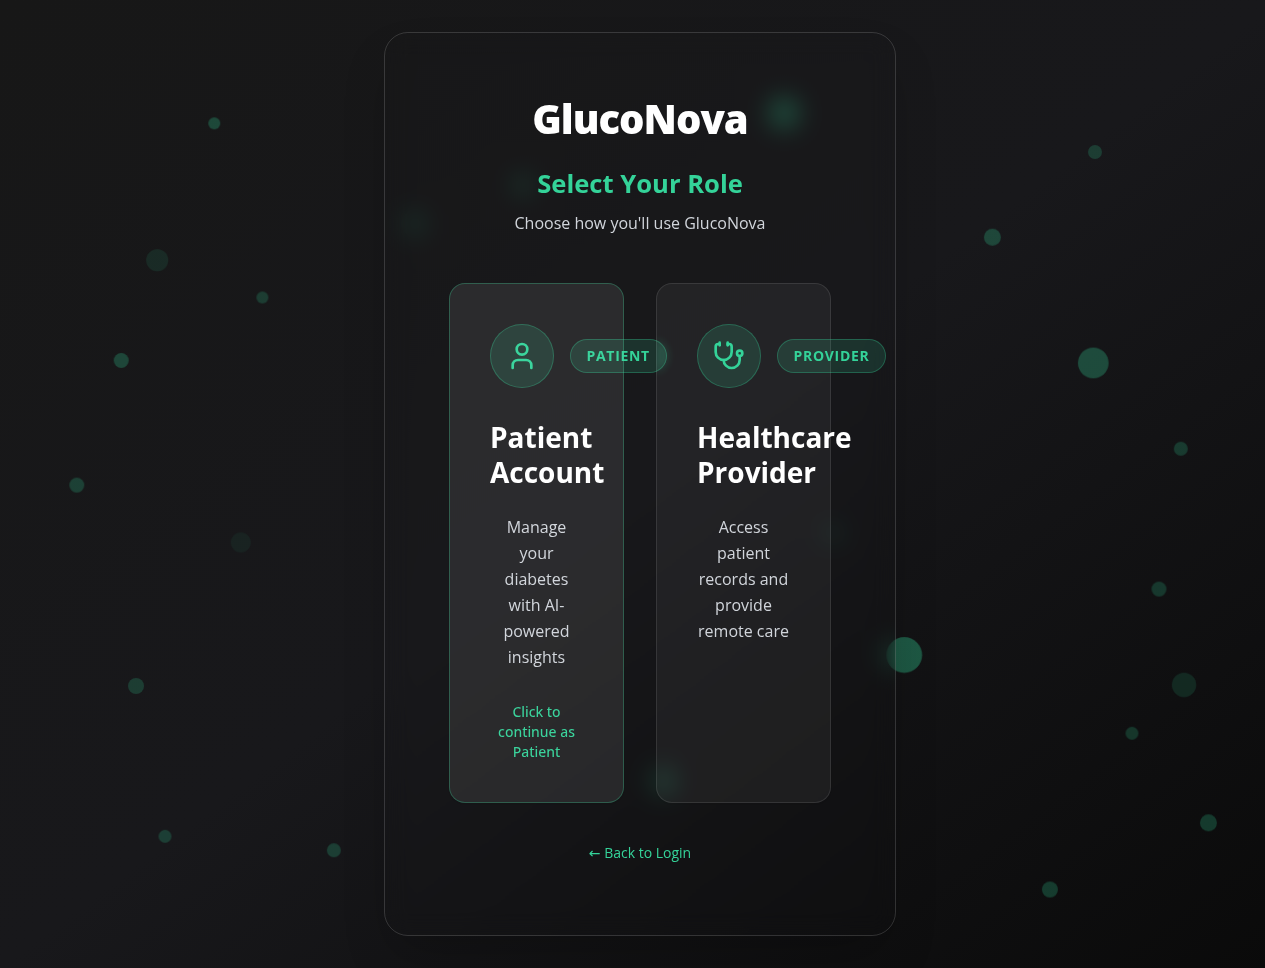
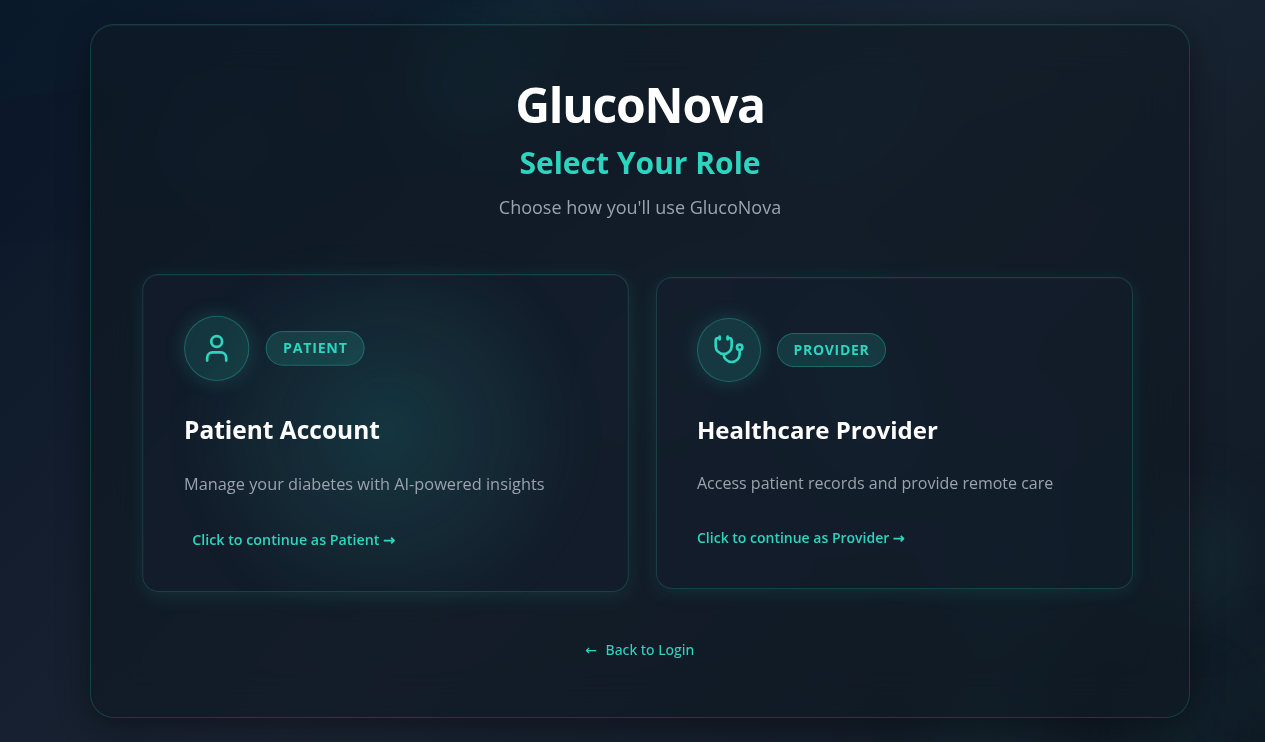
Expand background design to full desktop width while preserving style
Replace PublicLayout with custom full-width background implementation, increasing particle count to 20 and extending wave patterns to cover wider screens while maintaining original density and visual balance.

Replit-Commit-Author: Agent
Replit-Commit-Session-Id: 3a39287b-3a27-4a95-aeb7-80adefb4b807
Replit-Commit-Checkpoint-Type: full_checkpoint
Replit-Commit-Event-Id: 7751af66-af2a-4012-b37e-80e4575e5b5e
Replit-Commit-Screenshot-Url: https://storage.googleapis.com/screenshot-production-us-central1/662247f9-65c2-4da7-8f55-1945e8847433/3a39287b-3a27-4a95-aeb7-80adefb4b807/KMBz29p

diff --git a/client/src/pages/RoleSelectionPage.tsx b/client/src/pages/RoleSelectionPage.tsx
@@ -1,5 +1,4 @@
 import { useLocation, Link } from 'wouter';
-import PublicLayout from '@/components/PublicLayout';
 import { User, Stethoscope } from 'lucide-react';
 
 export default function RoleSelectionPage() {
@@ -10,9 +9,86 @@ export default function RoleSelectionPage() {
   };
 
   return (
-    <PublicLayout>
+    <div className="min-h-screen w-full relative overflow-hidden flex items-center justify-center p-6" style={{
+      background: 'linear-gradient(135deg, #0a1628 0%, #1a2332 50%, #0f1923 100%)'
+    }}>
+      {/* Animated Floating Teal Particles */}
+      <div className="absolute inset-0 overflow-hidden pointer-events-none">
+        {[...Array(20)].map((_, i) => (
+          <div
+            key={i}
+            className="absolute rounded-full"
+            style={{
+              width: `${Math.random() * 120 + 60}px`,
+              height: `${Math.random() * 120 + 60}px`,
+              background: `radial-gradient(circle, rgba(45, 212, 191, ${Math.random() * 0.15 + 0.05}) 0%, transparent 70%)`,
+              left: `${Math.random() * 100}%`,
+              top: `${Math.random() * 100}%`,
+              animation: `float ${Math.random() * 20 + 15}s ease-in-out infinite`,
+              animationDelay: `${Math.random() * 5}s`,
+              filter: 'blur(40px)'
+            }}
+          />
+        ))}
+      </div>
+
+      {/* Wave Pattern Background - Full Width */}
+      <div className="absolute inset-0 opacity-20 pointer-events-none">
+        <svg className="w-full h-full" xmlns="http://www.w3.org/2000/svg" preserveAspectRatio="none">
+          <defs>
+            <linearGradient id="waveGradient" x1="0%" y1="0%" x2="100%" y2="100%">
+              <stop offset="0%" style={{ stopColor: '#2dd4bf', stopOpacity: 0.3 }} />
+              <stop offset="100%" style={{ stopColor: '#14b8a6', stopOpacity: 0.1 }} />
+            </linearGradient>
+          </defs>
+          <path
+            d="M0,100 Q250,50 500,100 T1000,100 T1500,100 T2000,100 L2000,0 L0,0 Z"
+            fill="url(#waveGradient)"
+            opacity="0.15"
+          >
+            <animate
+              attributeName="d"
+              dur="20s"
+              repeatCount="indefinite"
+              values="M0,100 Q250,50 500,100 T1000,100 T1500,100 T2000,100 L2000,0 L0,0 Z;
+                      M0,100 Q250,150 500,100 T1000,100 T1500,100 T2000,100 L2000,0 L0,0 Z;
+                      M0,100 Q250,50 500,100 T1000,100 T1500,100 T2000,100 L2000,0 L0,0 Z"
+            />
+          </path>
+          <path
+            d="M0,200 Q300,150 600,200 T1200,200 T1800,200 T2400,200 L2400,0 L0,0 Z"
+            fill="url(#waveGradient)"
+            opacity="0.1"
+          >
+            <animate
+              attributeName="d"
+              dur="25s"
+              repeatCount="indefinite"
+              values="M0,200 Q300,150 600,200 T1200,200 T1800,200 T2400,200 L2400,0 L0,0 Z;
+                      M0,200 Q300,250 600,200 T1200,200 T1800,200 T2400,200 L2400,0 L0,0 Z;
+                      M0,200 Q300,150 600,200 T1200,200 T1800,200 T2400,200 L2400,0 L0,0 Z"
+            />
+          </path>
+          <path
+            d="M0,300 Q400,250 800,300 T1600,300 T2400,300 T3200,300 L3200,0 L0,0 Z"
+            fill="url(#waveGradient)"
+            opacity="0.08"
+          >
+            <animate
+              attributeName="d"
+              dur="30s"
+              repeatCount="indefinite"
+              values="M0,300 Q400,250 800,300 T1600,300 T2400,300 T3200,300 L3200,0 L0,0 Z;
+                      M0,300 Q400,350 800,300 T1600,300 T2400,300 T3200,300 L3200,0 L0,0 Z;
+                      M0,300 Q400,250 800,300 T1600,300 T2400,300 T3200,300 L3200,0 L0,0 Z"
+            />
+          </path>
+        </svg>
+      </div>
+
+      {/* Main Glassmorphic Card */}
       <div 
-        className="w-full max-w-[1100px] mx-auto rounded-3xl p-14 backdrop-blur-xl shadow-2xl"
+        className="relative w-full max-w-[1100px] rounded-3xl p-14 backdrop-blur-xl shadow-2xl"
         style={{
           background: 'rgba(15, 25, 35, 0.6)',
           border: '1px solid rgba(45, 212, 191, 0.2)',
@@ -179,6 +255,23 @@ export default function RoleSelectionPage() {
           </Link>
         </div>
       </div>
-    </PublicLayout>
+
+      <style>{`
+        @keyframes float {
+          0%, 100% {
+            transform: translateY(0) translateX(0);
+          }
+          25% {
+            transform: translateY(-30px) translateX(20px);
+          }
+          50% {
+            transform: translateY(-10px) translateX(-20px);
+          }
+          75% {
+            transform: translateY(-40px) translateX(10px);
+          }
+        }
+      `}</style>
+    </div>
   );
 }
